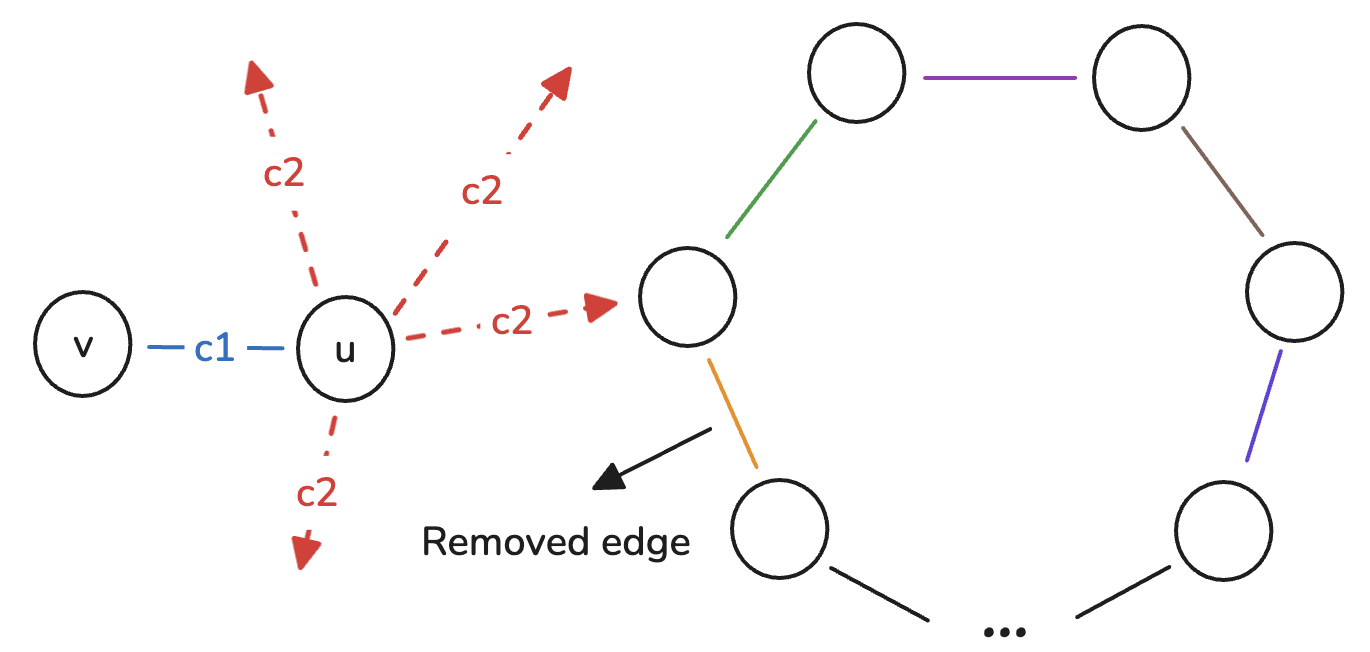
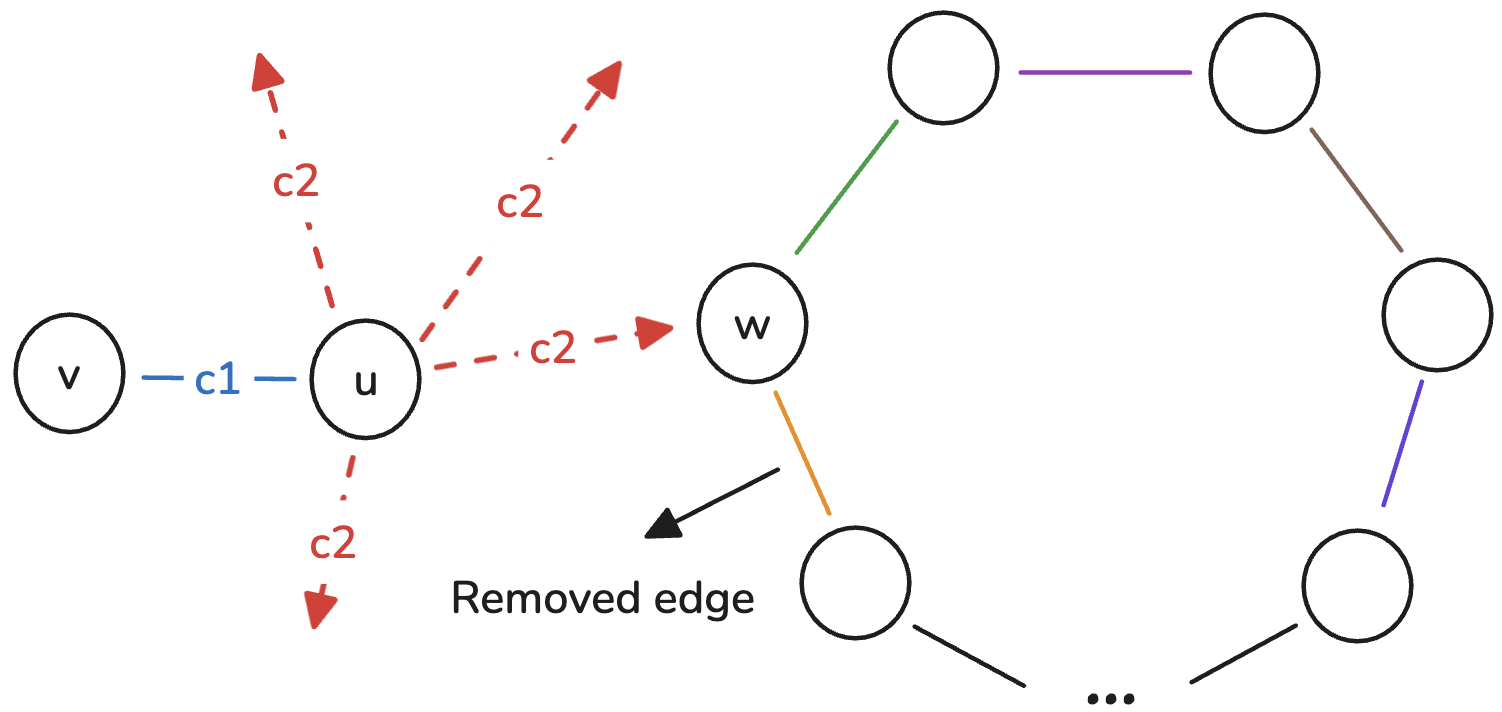
changing images

diff --git a/latex/conteudo/03-implementation.tex b/latex/conteudo/03-implementation.tex
@@ -255,7 +255,6 @@ As $I_1 \cap I_2 \subseteq [0, \ell - 2]$, from Pigeonhole Principle, $I_1 \cap 
 $i \in I_1 \cap I_2$, we can build a cycle with size $\ell$ with
 the following crossing procedure:
 
-% TODO: MUDAR IMAGEM COM u e v
 \begin{figure}[H]
     \centering
     \includegraphics[width=0.7\textwidth]{figuras/path_cycle_crossing.png}
@@ -312,7 +311,6 @@ one vertex $w$ on the cycle such that $\{u, w\} \in A(G_{c_2})$.
 Thus, we can build a path of length $\ell + 1$ by removing an edge in the cycle that is incident
 to $w$ (see the diagram below):
 
-% TODO: MUDAR IMAGEM COM w
 \begin{figure}[H]
     \centering
     \includegraphics[width=0.7\textwidth]{figuras/cycle_path_extension.png}
@@ -382,7 +380,7 @@ The code to find this cycle is shown below:
     \caption{Cycle Extension for \( \ell < n - 1 \) - Part 2}
     \begin{algorithmic}
         \Function{Extend\_Cycle}{$G, C$}
-            \State $u \gets \text{next}(i \text{ for } i \text{ in range(n) if \textbf{not} } colors\_in\_cycle[i])$
+            \State $u \gets \text{next}(i \text{ for } i \text{ in range(n) if \textbf{not} } vertices\_in\_cycle[i])$
             \For{$i \in [0, \dots, C.vertices.\text{size()} - 1]$}
                 \State $edge_1 \gets \text{check\_edge}(G, u, C.vertices[i + 1], c_1)$
                 \State $edge_2 \gets \text{check\_edge}(G, u, C.vertices[i], c_2)$
